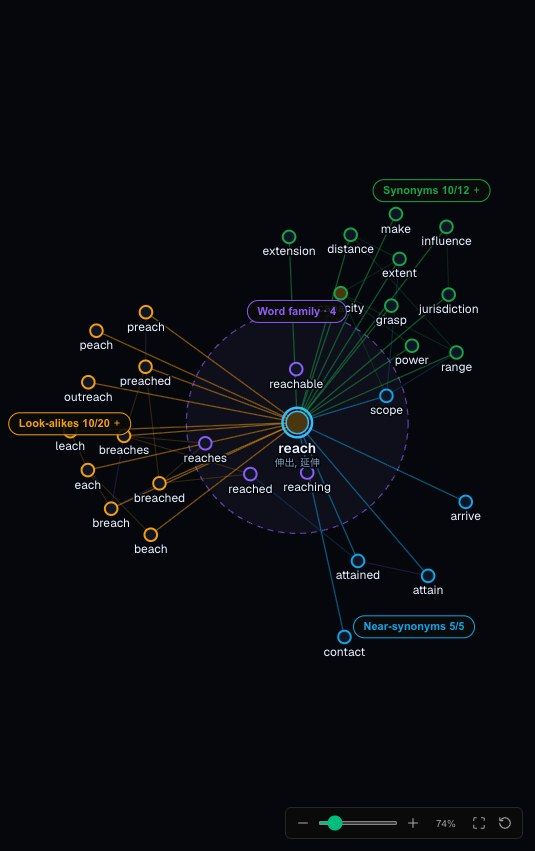
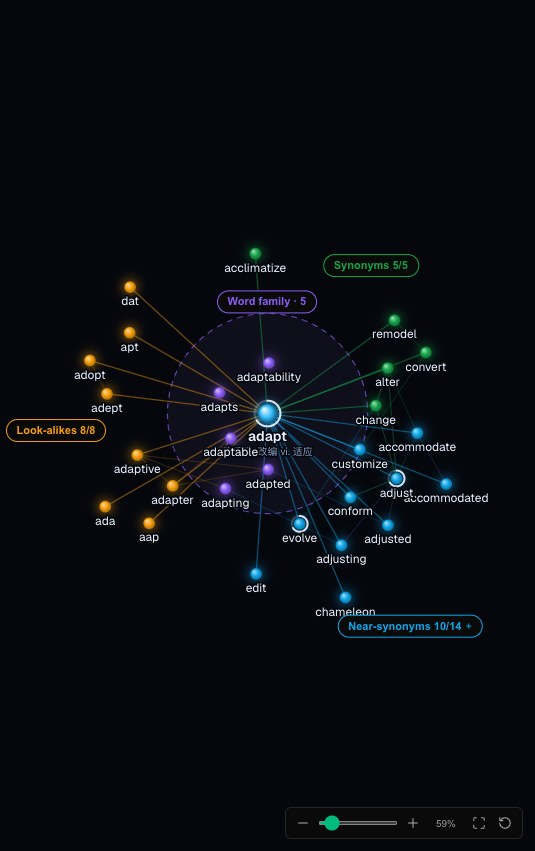
feat(graph): 节点改为实心「宝石」样式，熟悉度改成外圈进度环
- 原来用熟悉度做节点填充色，多数词处于「未学」时填充几乎与背景同色，整张图看起来是空心圆
- 现在节点用关系颜色做径向渐变实心球：深色主题带光晕，浅色主题带柔和阴影；中心词单独配色
- 熟悉度画成外圈进度环：见过 1/4 圈、学习中 2/3 圈、掌握闭合成整圈、薄弱为红色整圈；图例同步改成环形图标
- 待建词条保持虚线空心，以示区别
- 节点略放大、同族气泡留出更多空间，适应窗口时预留标签与分组标签的位置；分组标签向簇外侧展开，不再压住最外侧的词
- README 截图与描述同步更新

diff --git a/src/components/PanelFissionGraph.tsx b/src/components/PanelFissionGraph.tsx
@@ -46,7 +46,7 @@ const L2_PER_PARENT = 3;
 /** When a word is linked to the centre in several ways, the first group in this list wins. */
 const GROUP_PRIORITY: RelationGroup[] = ['family', 'antonym', 'synonym', 'near_synonym', 'spelling_similar'];
 
-const RADIUS = { center: 15, l1: 8.5, l2: 4 };
+const RADIUS = { center: 17, l1: 10, l2: 4.5 };
 
 interface AtlasNode extends GraphNode {
     group: RelationGroup | null;
@@ -157,7 +157,7 @@ function visibleGraph(atlas: Atlas, vis: Visibility) {
         : [];
 
     const family = l1.filter((n) => n.group === 'family');
-    const familyRadius = family.length ? Math.max(58, 7 * family.length + 34) : 0;
+    const familyRadius = family.length ? Math.max(72, 8 * family.length + 44) : 0;
     family.forEach((n, i) => {
         const a = (i / family.length) * Math.PI * 2 - Math.PI / 2;
         n.ax = Math.cos(a) * familyRadius;
@@ -221,22 +221,110 @@ function scatterAroundAnchors(nodes: AtlasNode[]) {
 // ---------------------------------------------------------------------------
 
 const PALETTE: Record<Theme, {
-    bg: string; ink: string; muted: string; halo: string; centerRing: string; edgeAlpha: number;
-    bubbleFill: string; fills: Record<Familiarity | 'new', string>;
+    bg: string; ink: string; muted: string; halo: string; edgeAlpha: number; bubbleFill: string;
+    /** Progress ring around a node (familiarity); weak words get their own warning colour. */
+    ring: string; weakRing: string;
+    /** Centre word: highlight, body and rim of its gradient. */
+    center: [string, string, string];
+    /** Dark theme lets nodes glow; light theme gives them a soft drop shadow instead. */
+    glow: boolean;
 }> = {
     dark: {
-        bg: '#05070d', ink: '#eaf2ff', muted: '#8ca3c4', halo: 'rgba(5,7,13,0.92)', centerRing: '#38bdf8',
-        edgeAlpha: 0.5, bubbleFill: 'rgba(167,139,250,0.06)',
-        fills: { new: '#0e1525', seen: '#173252', weak: '#5a1f2b', learning: '#4a3711', mastered: '#124430' },
+        bg: '#05070d', ink: '#eaf2ff', muted: '#8ca3c4', halo: 'rgba(5,7,13,0.92)', edgeAlpha: 0.45,
+        bubbleFill: 'rgba(167,139,250,0.06)', ring: 'rgba(234,242,255,0.9)', weakRing: '#fb7185',
+        center: ['#e0f2fe', '#38bdf8', '#075985'], glow: true,
     },
     light: {
-        bg: '#f1ede4', ink: '#20302c', muted: '#61706b', halo: 'rgba(241,237,228,0.95)', centerRing: '#1b6c53',
-        edgeAlpha: 0.55, bubbleFill: 'rgba(139,92,246,0.05)',
-        fills: { new: '#fffdf8', seen: '#d7e9f5', weak: '#f5d7d4', learning: '#fbe7bf', mastered: '#d8eedb' },
+        bg: '#f1ede4', ink: '#20302c', muted: '#61706b', halo: 'rgba(241,237,228,0.95)', edgeAlpha: 0.5,
+        bubbleFill: 'rgba(139,92,246,0.05)', ring: 'rgba(32,48,44,0.85)', weakRing: '#e11d48',
+        center: ['#a7f3d0', '#1b6c53', '#0f3d2e'], glow: false,
     },
 };
+type Palette = (typeof PALETTE)[Theme];
 
 const FAMILIARITY_ORDER: Array<Familiarity | 'new'> = ['new', 'seen', 'weak', 'learning', 'mastered'];
+/** Share of the progress ring drawn for each familiarity level. */
+const RING_FRACTION: Record<Familiarity, number> = { seen: 0.25, weak: 1, learning: 0.66, mastered: 1 };
+
+/** Blend two #rrggbb colours; t = 0 gives `hex`, t = 1 gives `other`. */
+function mix(hex: string, other: string, t: number): string {
+    const a = parseInt(hex.slice(1), 16), b = parseInt(other.slice(1), 16);
+    const channel = (shift: number) => {
+        const from = (a >> shift) & 255, to = (b >> shift) & 255;
+        return Math.round(from + (to - from) * t);
+    };
+    return `rgb(${channel(16)}, ${channel(8)}, ${channel(0)})`;
+}
+
+/** Solid "jewel" node: a radial gradient in the relation colour, glowing on dark, shadowed on paper. */
+function paintJewel(ctx: CanvasRenderingContext2D, x: number, y: number, r: number, stops: [string, string, string], palette: Palette, hovered: boolean) {
+    const [highlight, body, rim] = stops;
+    ctx.save();
+    if (palette.glow) {
+        ctx.shadowColor = body;
+        ctx.shadowBlur = hovered ? 22 : 12;
+    } else {
+        ctx.shadowColor = 'rgba(60, 45, 20, 0.28)';
+        ctx.shadowBlur = hovered ? 8 : 4;
+        ctx.shadowOffsetY = 1;
+    }
+    const gradient = ctx.createRadialGradient(x - r * 0.35, y - r * 0.4, r * 0.1, x, y, r);
+    gradient.addColorStop(0, highlight);
+    gradient.addColorStop(0.55, body);
+    gradient.addColorStop(1, rim);
+    ctx.beginPath();
+    ctx.arc(x, y, r, 0, Math.PI * 2);
+    ctx.fillStyle = gradient;
+    ctx.fill();
+    ctx.restore();
+}
+
+/** Gradient stops for a relation colour. */
+function jewelStops(color: string): [string, string, string] {
+    return [mix(color, '#ffffff', 0.55), color, mix(color, '#000000', 0.3)];
+}
+
+/** Familiarity as a progress ring: a quarter once seen, two thirds while learning, closed when mastered. */
+function paintProgressRing(ctx: CanvasRenderingContext2D, x: number, y: number, r: number, level: Familiarity | undefined, palette: Palette, scale: number) {
+    if (!level) return;
+    const radius = r + 3.5;
+    const color = level === 'weak' ? palette.weakRing : palette.ring;
+    const fraction = RING_FRACTION[level];
+    ctx.save();
+    ctx.lineWidth = (level === 'mastered' ? 2.4 : 2) / scale;
+    ctx.lineCap = 'round';
+    ctx.strokeStyle = color;
+    if (fraction < 1) {
+        ctx.globalAlpha *= 0.22;
+        ctx.beginPath();
+        ctx.arc(x, y, radius, 0, Math.PI * 2);
+        ctx.stroke();
+        ctx.globalAlpha /= 0.22;
+    }
+    ctx.beginPath();
+    ctx.arc(x, y, radius, -Math.PI / 2, -Math.PI / 2 + fraction * Math.PI * 2);
+    ctx.stroke();
+    ctx.restore();
+}
+
+/** Legend swatch: a neutral dot with the same progress ring the graph draws. */
+function RingIcon({ level, palette }: { level: Familiarity | 'new'; palette: Palette }) {
+    const circumference = 2 * Math.PI * 6;
+    const fraction = level === 'new' ? 0 : RING_FRACTION[level];
+    const color = level === 'weak' ? palette.weakRing : palette.ring;
+    return (
+        <svg width="16" height="16" viewBox="0 0 16 16" aria-hidden="true">
+            <circle cx="8" cy="8" r="3.2" fill={palette.muted} />
+            {fraction > 0 && fraction < 1 && <circle cx="8" cy="8" r="6" fill="none" stroke={color} strokeOpacity="0.22" strokeWidth="1.6" />}
+            {fraction > 0 && (
+                <circle
+                    cx="8" cy="8" r="6" fill="none" stroke={color} strokeWidth="1.6" strokeLinecap="round"
+                    strokeDasharray={`${fraction * circumference} ${circumference}`} transform="rotate(-90 8 8)"
+                />
+            )}
+        </svg>
+    );
+}
 
 /** "vt. 放弃, 抛弃, 遗弃" -> "放弃, 抛弃" */
 function shortGloss(translation?: string): string {
@@ -371,7 +459,7 @@ export default function PanelFissionGraph({ word, onNodeClick }: PanelFissionGra
     }, [view]);
     useEffect(() => { applyForces(); }, [applyForces]);
 
-    const fit = useCallback((ms = 500) => fgRef.current?.zoomToFit(ms, 64), []);
+    const fit = useCallback((ms = 500) => fgRef.current?.zoomToFit(ms, 84), []);
 
     // Panels are resizable: keep the graph framed when the available space changes.
     useEffect(() => {
@@ -395,24 +483,30 @@ export default function PanelFissionGraph({ word, onNodeClick }: PanelFissionGra
         for (const [group, el] of pillRefs.current) {
             const members = view.nodes.filter((n) => n.level === 1 && n.group === group && n.x !== undefined);
             if (!members.length) { el.style.visibility = 'hidden'; continue; }
-            let x: number, y: number;
+            // Graph point the pill hangs from, and the direction it extends in (away from its words).
+            let x: number, y: number, ux: number, uy: number;
             if (group === 'family') {
-                const r = Math.max(...members.map((n) => Math.hypot(n.x!, n.y!))) + RADIUS.l1 + 16;
-                x = 0; y = -r;
+                const r = Math.max(...members.map((n) => Math.hypot(n.x!, n.y!))) + RADIUS.l1 + 14;
+                x = 0; y = -r; ux = 0; uy = -1;
             } else {
                 const anchor = view.anchors.get(group);
                 if (!anchor) { el.style.visibility = 'hidden'; continue; }
                 const d = Math.hypot(anchor.x, anchor.y) || 1;
-                const ux = anchor.x / d, uy = anchor.y / d;
+                ux = anchor.x / d; uy = anchor.y / d;
                 const reach = Math.max(...members.map((n) => n.x! * ux + n.y! * uy));
-                x = ux * (reach + 34);
-                y = uy * (reach + 34);
+                x = ux * (reach + 26);
+                y = uy * (reach + 26);
             }
             const p = fg.graph2ScreenCoords(x, y);
-            const px = Math.min(Math.max(p.x, 70), size.width - 70);
-            const py = Math.min(Math.max(p.y, 14), size.height - 50);
+            const w = el.offsetWidth, h = el.offsetHeight;
+            // Top-left corner of the pill so that it sits on the far side of the point.
+            let left = p.x - w / 2 + ux * w / 2;
+            // Words carry their label underneath, so leave room for it below the cluster.
+            let top = p.y - h / 2 + uy * h / 2 + (uy > 0 ? 16 : 0);
+            left = Math.min(Math.max(left, 6), size.width - w - 6);
+            top = Math.min(Math.max(top, 6), size.height - h - 52);
             el.style.visibility = 'visible';
-            el.style.transform = `translate(${px}px, ${py}px) translate(-50%, -50%)`;
+            el.style.transform = `translate(${left}px, ${top}px)`;
         }
         if (hovered && tooltipRef.current && hovered.x !== undefined) {
             const p = fg.graph2ScreenCoords(hovered.x, hovered.y ?? 0);
@@ -458,36 +552,29 @@ export default function PanelFissionGraph({ word, onNodeClick }: PanelFissionGra
         const x = node.x ?? 0, y = node.y ?? 0;
         const isHovered = hovered?.id === node.id;
         const dim = hovered && !isHovered && !neighbours.get(hovered.id)?.has(node.id) && node.level !== 0;
-        const fill = palette.fills[familiarity[node.id] ?? 'new'];
+        const level = familiarity[node.id];
         ctx.save();
         if (dim) ctx.globalAlpha = 0.35;
 
         if (node.level === 0) {
-            ctx.beginPath();
-            ctx.arc(x, y, RADIUS.center + 5, 0, Math.PI * 2);
-            ctx.strokeStyle = palette.centerRing;
-            ctx.lineWidth = 2.5 / scale;
-            ctx.stroke();
-            ctx.beginPath();
-            ctx.arc(x, y, RADIUS.center, 0, Math.PI * 2);
-            ctx.fillStyle = fill;
-            ctx.fill();
-            ctx.lineWidth = 1.5 / scale;
-            ctx.stroke();
+            paintJewel(ctx, x, y, RADIUS.center, palette.center, palette, isHovered);
+            paintProgressRing(ctx, x, y, RADIUS.center + 1.5, level, palette, scale);
         } else if (node.level === 1) {
-            const color = GROUP_COLORS[node.group!];
-            ctx.beginPath();
-            ctx.arc(x, y, RADIUS.l1 * (isHovered ? 1.25 : 1), 0, Math.PI * 2);
+            const r = RADIUS.l1 * (isHovered ? 1.2 : 1);
             if (node.placeholder) {
+                // No dictionary entry yet: keep it hollow and dashed.
+                ctx.beginPath();
+                ctx.arc(x, y, r, 0, Math.PI * 2);
+                ctx.fillStyle = palette.bg;
+                ctx.fill();
                 ctx.setLineDash([3 / scale, 3 / scale]);
                 ctx.strokeStyle = palette.muted;
+                ctx.lineWidth = 1.5 / scale;
+                ctx.stroke();
             } else {
-                ctx.fillStyle = fill;
-                ctx.fill();
-                ctx.strokeStyle = color;
+                paintJewel(ctx, x, y, r, jewelStops(GROUP_COLORS[node.group!]), palette, isHovered);
+                paintProgressRing(ctx, x, y, r, level, palette, scale);
             }
-            ctx.lineWidth = 2 / scale;
-            ctx.stroke();
         } else {
             ctx.beginPath();
             ctx.arc(x, y, RADIUS.l2 * (isHovered ? 1.4 : 1), 0, Math.PI * 2);
@@ -677,7 +764,7 @@ export default function PanelFissionGraph({ word, onNodeClick }: PanelFissionGra
                     <span className="font-semibold text-neutral-300">{t('atlas.legend.title')}</span>
                     {FAMILIARITY_ORDER.map((f) => (
                         <span key={f} className="inline-flex items-center gap-1">
-                            <span className="h-2.5 w-2.5 rounded-full border border-neutral-600" style={{ background: palette.fills[f] }} />
+                            <RingIcon level={f} palette={palette} />
                             {t(`atlas.legend.${f}`)}
                         </span>
                     ))}

diff --git a/README.md b/README.md
@@ -37,8 +37,8 @@ The right-hand panel of the workspace is a map of the selected word.
   dashed bubble around the centre word instead of adding more lines.
 - **One sector per relation.** Each group fans out in its own direction with a label such as *Synonyms 10/12 +*;
   click it to show the rest.
-- **Your progress on the map.** Nodes are filled by how well you know each word: new, seen, weak, learning or
-  mastered.
+- **Your progress on the map.** A ring around each word shows how well you know it: a quarter once you have seen
+  it, two thirds while learning, closed when mastered, red when it is weak.
 - **Second-degree links on demand** (press <kbd>H</kbd>), dashed outlines for words without an entry yet, and
   short Chinese glosses when you zoom in.
 
@@ -174,7 +174,7 @@ own. Model weights follow the [Qwen2.5 license](https://huggingface.co/Qwen/Qwen
 
 - [ECDICT](https://github.com/skywind3000/ECDICT) for phonetics, translations and word forms
 - [Qwen2.5](https://github.com/QwenLM/Qwen2.5) as the base model
-- The graph's relation chips, word-family bubbles and familiarity colours were inspired by
+- The graph's relation chips, word-family bubbles and familiarity marks were inspired by
   词汇星图 in [HytidelLegend/ai-aug-edu](https://github.com/HytidelLegend/ai-aug-edu)
 
 Built for [UNU Macau · AI for SDGs 2026](https://unu.edu/macau), AI for Education (SDG 4).
